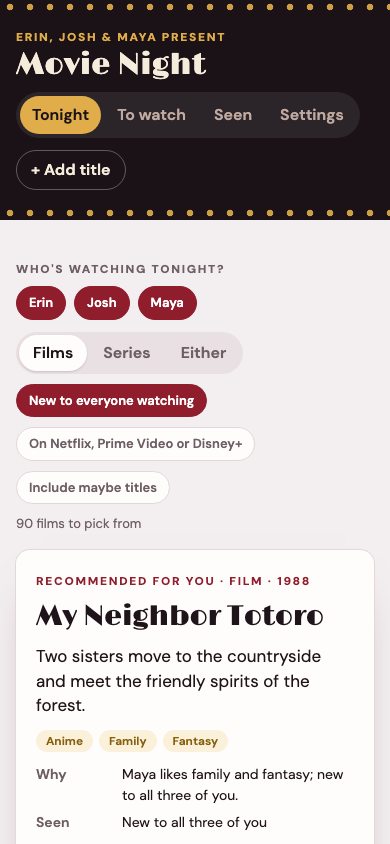
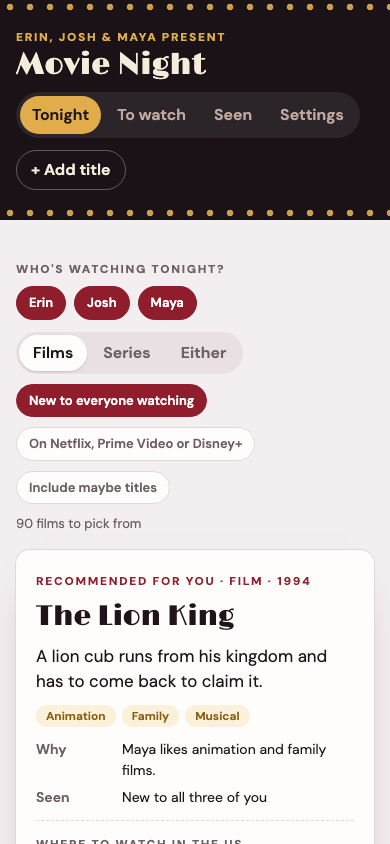
Movie Night: red-team fixes (old marks stay with the first two people, services switch only when a service is known, titles kept while saving, plainer why line)

Changed region(s): [[0.0923, 0.6777, 0.8923, 1.0]]

diff --git a/movie-night/movie-night.html b/movie-night/movie-night.html
@@ -882,7 +882,7 @@ const clampStar = v => { const n = Math.round(Number(v)); return n >= 1 && n <= 
 function norm(x) {
   x = x || {};
   const ids = PEOPLE.map(p => p.id);
-  const first = ids[0] || "p1", second = ids[1] || "p2";
+  const first = "p1", second = "p2";
   const seenM = {}, starsM = {}, favM = {};
   const take = (src, out, f) => { if (src && typeof src === "object") Object.keys(src).forEach(k => { const v = f(src[k]); if (v) out[k] = v; }); };
   take(x.seen, seenM, v => !!v); take(x.stars, starsM, clampStar); take(x.fav, favM, v => !!v);
@@ -1162,11 +1162,12 @@ function whoLine(s, W) {
   return `${listJoin(yes)} ${yes.length > 1 ? "have" : "has"} seen it, new to ${listJoin(no)}`;
 }
 // One line on why this title: which watchers' picked genres it matches, or what it is close to, and who it is new to.
+const GENRE_WORDS = { comedy: "comedies", documentary: "documentaries", drama: "dramas", family: "family films", musical: "musicals", mystery: "mysteries", sitcom: "sitcoms", thriller: "thrillers", war: "war films", western: "westerns", reality: "reality TV" };
 function whyLine(r, s, W) {
   const lc = r.genres.map(x => x.toLowerCase());
   const likes = [];
   W.forEach(p => {
-    const m = p.genres.filter(g => lc.includes(g.toLowerCase())).map(g => g.toLowerCase());
+    const m = p.genres.filter(g => lc.includes(g.toLowerCase())).map(g => GENRE_WORDS[g.toLowerCase()] || g.toLowerCase());
     if (m.length) likes.push(W.length === 1 ? `You like ${listJoin(m)}` : `${p.name} likes ${listJoin(m)}`);
   });
   const parts = [];
@@ -1178,8 +1179,6 @@ function whyLine(r, s, W) {
     else if (pickFrom === "claude") parts.push("A new idea from Claude");
     else parts.push(s.progress === "later" ? "On your Maybe list" : s.progress === "want" ? "On your Want to watch list" : "Close to what you tend to like");
   }
-  const line = whoLine(s, W);
-  parts.push(/^(New|You)/.test(line) ? line[0].toLowerCase() + line.slice(1) : line);
   return parts.join("; ") + ".";
 }
 
@@ -1240,6 +1239,8 @@ function pickRow(r, mode) {
 }
 
 function renderTonight() {
+  const anyOurs = ROWS.some(r => r.ours), chipOurs = document.getElementById("chip-ours");
+  if (chipOurs) { chipOurs.hidden = !SERVICES.length || !anyOurs; if (!anyOurs && T.ours) { T.ours = false; chipOurs.setAttribute("aria-pressed", "false"); } }
   if (rolling || OB) return;
   const slot = document.getElementById("ticket-slot");
   const p = pool();
@@ -1706,7 +1707,7 @@ function renderOb(focus) {
       `<div class="nums" role="group" aria-label="How many people">${Array.from({ length: MAX_PEOPLE }, (_, k) => k + 1).map(n => `<button type="button" class="chip" data-ob="n" data-n="${n}" aria-pressed="${n === d.n}">${n}</button>`).join("")}</div>
        <div class="names" id="ob-names">${namesHtml()}</div>`, "Next");
   } else if (s.t === "where") {
-    html = obFrame("Where and what you stream", "Pick your country and tap the services you have. The five most used there are shown, and you can add others. The page uses them for its look-up links and the \"On our services\" switch. You can change both later in Settings.",
+    html = obFrame("Where and what you stream", "Pick your country and tap the services you have. The five most used there are shown, and you can add others. Claude uses them when it suggests new titles, and the \"On our services\" switch uses them for titles whose service is known. You can change both later in Settings.",
       `<label class="fld" style="max-width:260px">Country<select id="ob-country" data-obcountry>${countryOptions(d.country)}</select></label>
        <p class="ob-sub">Streaming services</p>${servicesHtml(d.services, "ob", d.country)}`, "Next");
   } else if (s.t === "genres") {
@@ -2152,8 +2153,10 @@ renderList(true);
     renderAll();
   });
   DB.collection("titles").onSnapshot(snap => {
+    const prevTitles = overrides;
     overrides = {};
     snap.docs.forEach(d => { if (d.exists && !writing("titles", d.id)) overrides[d.id] = d.data() || {}; });
+    Object.keys(prevTitles).forEach(id => { if (writing("titles", id) && !overrides[id]) overrides[id] = prevTitles[id]; });
     Object.keys(overrides).forEach(id => { delete PENDING_TITLES[id]; });
     if (!ready) { got("titles"); return; }
     buildRows();
